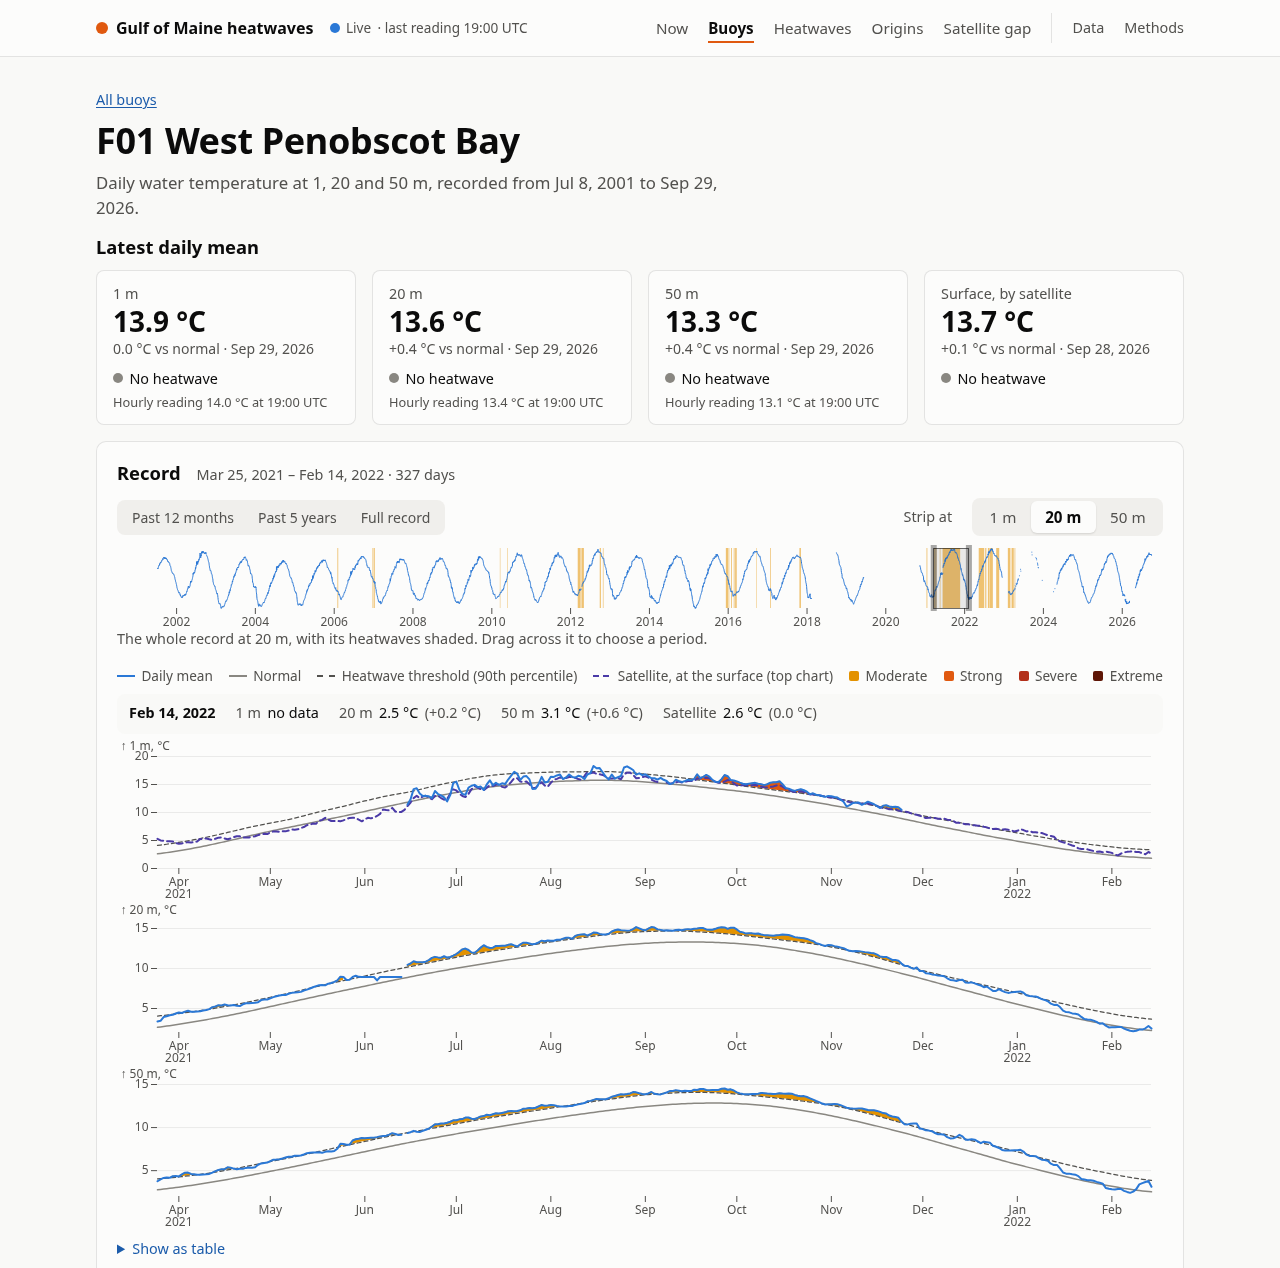
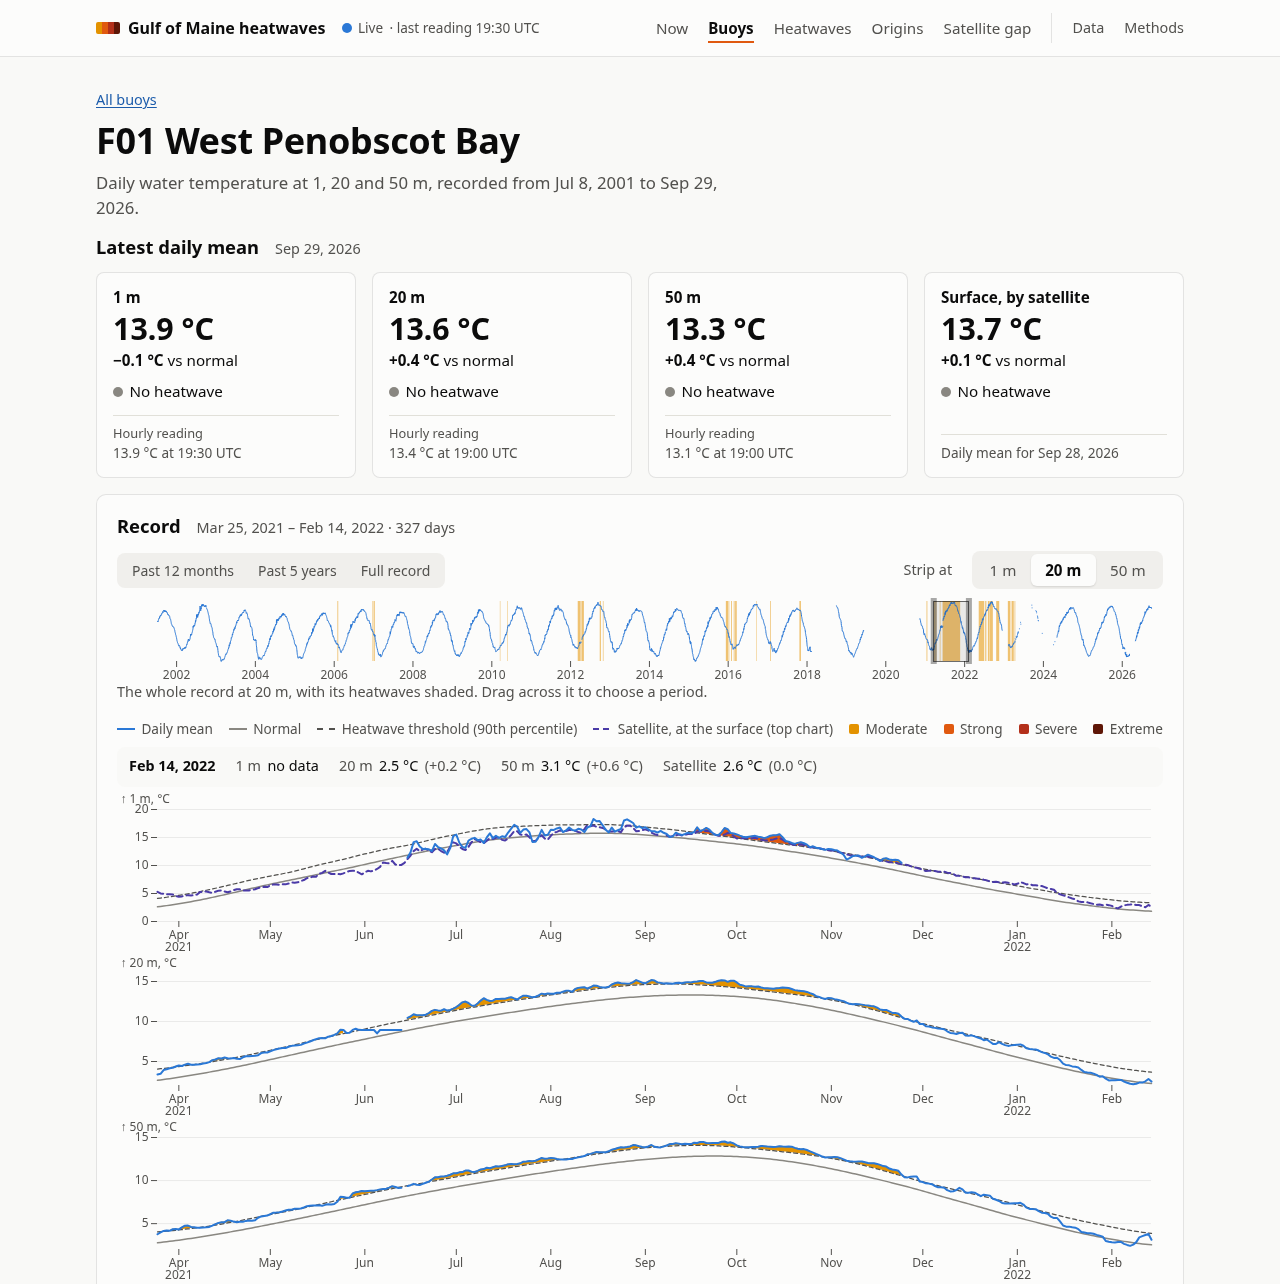
Buoy tiles: easier to read at a glance
Everything under the temperature was the same small grey, so the
anomaly read no louder than the date beside it, and the same date
repeated on every tile.

- The depth is a dark heading, and the anomaly has its own dark line
  with the figure in bold.
- The day the tiles share goes by the heading; a tile whose day differs,
  such as the satellite's, says so in its footer.
- The hourly reading moves to a footer under a rule, on two lines that
  don't break mid-phrase, level across the row.
- On phones the tiles sit two to a row.
- The depth tiles and the satellite's share one Tile component.

diff --git a/frontend/src/pages/BuoyPage.tsx b/frontend/src/pages/BuoyPage.tsx
@@ -2,7 +2,7 @@ import { useCallback } from "react";
 import { Link, useParams } from "react-router";
 
 import { useBuoys, useEvents } from "../api/queries";
-import type { Buoy, HeatwaveEvent } from "../api/types";
+import type { Buoy, Condition, HeatwaveEvent } from "../api/types";
 import { DepthCharts } from "../components/DepthCharts";
 import { EventList } from "../components/EventList";
 import { RangeBrush } from "../components/RangeBrush";
@@ -111,41 +111,49 @@ function NotFoundBuoy() {
 /** The latest daily mean at each depth, with its status, and the satellite's at the surface when it has one. */
 function Tiles({ buoy }: { buoy: Buoy }) {
   const satellite = buoy.satellite?.temperature != null ? buoy.satellite : null;
+  // The tiles mostly share a day, so it goes by the heading; a tile names its own only when that differs.
+  const day = latest(buoy.series.map((s) => s.date));
   return (
     <section className="latest" aria-labelledby="latest-title">
-      <h2 id="latest-title">Latest daily mean</h2>
+      <div className="detail-head">
+        <h2 id="latest-title">Latest daily mean</h2>
+        {day && <p className="range-label">{formatDate(day)}</p>}
+      </div>
       <div className="tiles">
         {buoy.series.map((s) => (
-          <div className="tile" key={s.depth}>
-            <p className="tile-label">{s.depth} m</p>
-            <p className="tile-value">{formatTemp(s.temperature)}</p>
-            <p className="tile-delta">
-              {formatSigned(s.anomaly)} vs normal{s.date && ` · ${formatDate(s.date)}`}
-            </p>
-            <p className="tile-state">
-              <StateBadge condition={s} />
-            </p>
-            {s.reading_at && (
-              <p className="tile-reading">
-                Hourly reading {formatTemp(s.reading)} at {formatTime(s.reading_at)}
-              </p>
-            )}
-          </div>
+          <Tile key={s.depth} label={`${s.depth} m`} condition={s} day={day} />
         ))}
-        {satellite && (
-          <div className="tile">
-            <p className="tile-label">Surface, by satellite</p>
-            <p className="tile-value">{formatTemp(satellite.temperature)}</p>
-            <p className="tile-delta">
-              {formatSigned(satellite.anomaly)} vs normal{satellite.date && ` · ${formatDate(satellite.date)}`}
-            </p>
-            <p className="tile-state">
-              <StateBadge condition={satellite} />
-            </p>
-          </div>
-        )}
+        {satellite && <Tile label="Surface, by satellite" condition={satellite} day={day} />}
       </div>
     </section>
+  );
+}
+
+function Tile({ label, condition, day }: { label: string; condition: Condition; day: string | null }) {
+  // An offline series' badge already says when its data stopped.
+  const ownDay = condition.date !== day && condition.state !== "offline" ? condition.date : null;
+  return (
+    <div className="tile">
+      <p className="tile-label">{label}</p>
+      <p className="tile-value">{formatTemp(condition.temperature)}</p>
+      <p className="tile-anomaly">
+        <strong>{formatSigned(condition.anomaly)}</strong> vs normal
+      </p>
+      <p className="tile-state">
+        <StateBadge condition={condition} />
+      </p>
+      {(ownDay || condition.reading_at) && (
+        <div className="tile-foot">
+          {ownDay && <p>Daily mean for {formatDate(ownDay)}</p>}
+          {condition.reading_at && (
+            <p>
+              <span className="tile-foot-label">Hourly reading</span>
+              {formatTemp(condition.reading)} at {formatTime(condition.reading_at)}
+            </p>
+          )}
+        </div>
+      )}
+    </div>
   );
 }
 

diff --git a/frontend/src/styles.css b/frontend/src/styles.css
@@ -183,17 +183,27 @@ td .swatch { position: relative; top: 1px; }
 .latest { margin-bottom: 1rem; }
 
 .tiles { display: grid; grid-template-columns: repeat(auto-fit, minmax(170px, 1fr)); gap: 1rem; }
-.tile { background: var(--surface); border: 1px solid var(--border); border-radius: 8px; padding: 0.75rem 1rem; }
+.tile { display: flex; flex-direction: column; gap: 0.15rem; background: var(--surface); border: 1px solid var(--border); border-radius: 8px; padding: 0.85rem 1rem; }
 .tile p { margin: 0; }
-.tile-label { color: var(--ink-2); font-size: 0.9rem; }
-.tile-value { font-size: 1.75rem; font-weight: 650; line-height: 1.2; }
+.tile-label { font-size: 0.95rem; font-weight: 600; }
+.tile-value { font-size: 1.9rem; font-weight: 650; line-height: 1.15; }
 .tile-delta { color: var(--ink-2); font-size: 0.875rem; }
-.tile .tile-state { font-size: 0.9rem; margin-top: 0.5rem; }
-.tile .tile-reading { color: var(--ink-2); font-size: 0.8rem; margin-top: 0.25rem; }
+.tile-anomaly { font-size: 0.95rem; }
+.tile-anomaly strong { font-weight: 650; }
+.tile .tile-state { font-size: 0.95rem; margin: 0.35rem 0 0.6rem; }
+/* What differs from the daily mean above: set apart, and level across the row. */
+.tile-foot { display: grid; gap: 0.35rem; margin-top: auto; padding-top: 0.5rem; border-top: 1px solid var(--grid); color: var(--ink-2); font-size: 0.85rem; }
+.tile-foot-label { display: block; font-size: 0.8rem; }
 /* The satellite page's figures. */
 .stats { margin-bottom: 1rem; }
 .stats .tile-value { font-size: 2.5rem; line-height: 1.1; }
-@media (max-width: 640px) { .tiles { grid-template-columns: 1fr; } }
+@media (max-width: 640px) {
+  .tiles { grid-template-columns: 1fr; }
+  /* A buoy's tiles are short: two to a row keeps them to a screen. */
+  .latest .tiles { grid-template-columns: 1fr 1fr; gap: 0.75rem; }
+  .latest .tile { padding: 0.75rem; }
+  .latest .tile-value { font-size: 1.6rem; }
+}
 
 .range-head { display: flex; flex-wrap: wrap; align-items: center; justify-content: space-between; gap: 0.5rem 1rem; margin-bottom: 0.5rem; }
 .range-head .filters { margin: 0; }
